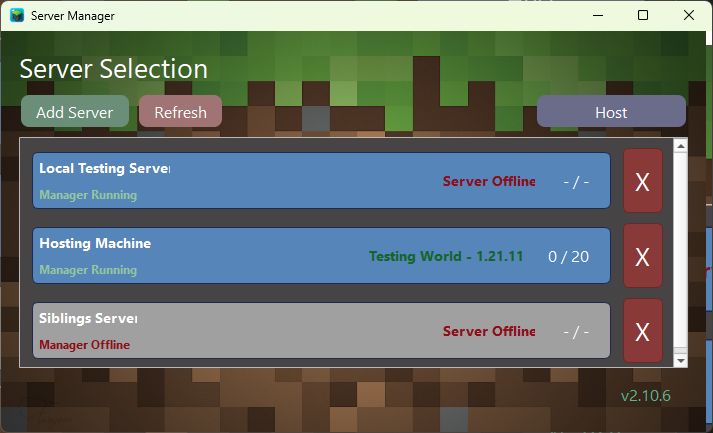
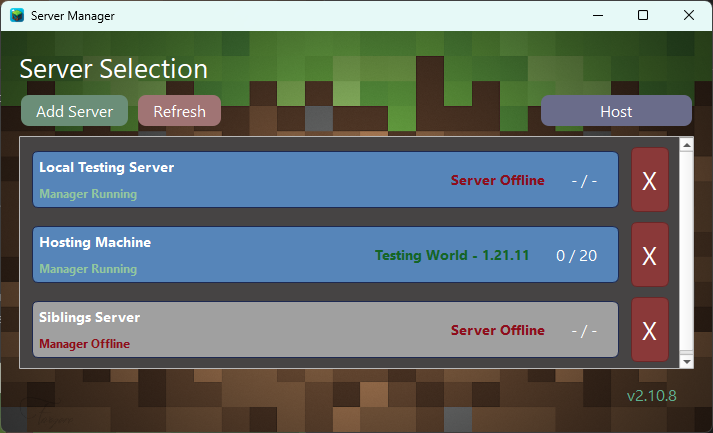
Cleanup and readme update

diff --git a/file_funcs.py b/file_funcs.py
@@ -765,22 +765,21 @@ def get_disk_space(path):
     usage = shutil.disk_usage(os.path.dirname(path))
     return usage.free
 
-def backup_world(world_folder_path, backup_zip_path, parent, progress_function=None, socket_writer=None):
-    if not socket_writer:
-        os.makedirs(os.path.dirname(backup_zip_path), exist_ok=True)
-        # World folder size
-        total_size = get_total_size(world_folder_path)
-        free_bytes = get_disk_space(backup_zip_path)
+def backup_world(world_folder_path, backup_zip_path, parent, progress_function=None):
+    os.makedirs(os.path.dirname(backup_zip_path), exist_ok=True)
+    # World folder size
+    total_size = get_total_size(world_folder_path)
+    free_bytes = get_disk_space(backup_zip_path)
 
-        if total_size >= free_bytes:
-            box = QMessageBox(parent)
-            box.setWindowTitle("Low Disk Space")
-            box.setText(f"Not enough disk space!<br>{os.path.basename(world_folder_path)} folder is {format_size(total_size)}.")
-            box.setIcon(QMessageBox.Icon.Critical)
-            box.setStandardButtons(QMessageBox.StandardButton.Close)
-            box.setStyleSheet("QLabel { color: red; }")
-            box.exec()
-            return False
+    if total_size >= free_bytes:
+        box = QMessageBox(parent)
+        box.setWindowTitle("Low Disk Space")
+        box.setText(f"Not enough disk space!<br>{os.path.basename(world_folder_path)} folder is {format_size(total_size)}.")
+        box.setIcon(QMessageBox.Icon.Critical)
+        box.setStandardButtons(QMessageBox.StandardButton.Close)
+        box.setStyleSheet("QLabel { color: red; }")
+        box.exec()
+        return False
 
     total_files = 0
     for _, _, files in os.walk(world_folder_path):
@@ -808,7 +807,7 @@ def backup_world(world_folder_path, backup_zip_path, parent, progress_function=N
     processed = 0
     last_updated = time.time()
     try:
-        with zipfile.ZipFile((socket_writer if socket_writer else backup_zip_path), "w", compression=zipfile.ZIP_DEFLATED, compresslevel=6) as zf:
+        with zipfile.ZipFile(backup_zip_path, "w", compression=zipfile.ZIP_DEFLATED, compresslevel=6) as zf:
             for root, _, files in os.walk(world_folder_path):
                 for name in files:
                     dialog_box.setLabelText("Copying files...<br>" + name)
@@ -831,11 +830,9 @@ def backup_world(world_folder_path, backup_zip_path, parent, progress_function=N
                         last_updated = time.time()
                         progress_function(processed, name)
         
-        if socket_writer:
-            socket_writer.end_transfer()
         return True
     except RuntimeError:
-        if not socket_writer and os.path.exists(backup_zip_path):
+        if os.path.exists(backup_zip_path):
             os.remove(backup_zip_path)
         
         return False

diff --git a/manager.py b/manager.py
@@ -15,7 +15,7 @@ from PyQt6.QtWidgets import QApplication, QMainWindow, QVBoxLayout, QHBoxLayout,
 from PyQt6.QtGui import QFont, QIcon, QPixmap, QPainter, QPaintEvent, QDesktopServices
 from PyQt6.QtCore import Qt, QRect, QThread, pyqtSignal, QObject, QUrl, QCoreApplication
 
-VERSION = "v2.10.7"
+VERSION = "v2.10.8"
 DEBUG_LOGS = False
 
 KEY_PATH = "Software\\MinecraftManager"

diff --git a/manager_host.py b/manager_host.py
@@ -23,7 +23,7 @@ import websock_mgmt
 import html
 import supervisor
 
-VERSION = "v2.10.7"
+VERSION = "v2.10.8"
 DEBUG_LOGS = False
 
 if getattr(sys, "frozen", False):

diff --git a/README.md b/README.md
@@ -47,6 +47,15 @@ The host has the ability to
 - The host and clients automatically receive updates when players join and leave the server without having to refresh.
 - The host can click player's names in the list to perform specific actions on them such as whitelisting, kicking, banning, or op-ing.
 
+### Custom Commands
+The host also has the ability to create custom commands that can be run on the server. The manager has a `Custom Commands` button. This opens a new page that allows setting commands that will execute any specified Minecraft commands on the server.  
+
+![Custom Commands](Images/custom_commands.png)
+
+Commands are run in the Minecraft chat by preceeding the command with `!`. Any chat message preceeded by an exclamation mark is checked to see if it is a saved custom command (such as typing `!my_command` in chat). Typing `PLAYER` in a command will replace that word in the command with the name of the player who typed the command.  
+There are a couple default commands:
+- `!help` - This will list all of the custom commands available in the player's chat.
+- `!reload_commands` - This will reload the commands file to update any changes immediately.
 
 ### Extra Features
 For all versions starting at snapshot 25w35a (1.21.9), servers provide an API to receive notifications from the server, and also to send commands to the server. This means there are more features available for those worlds.
